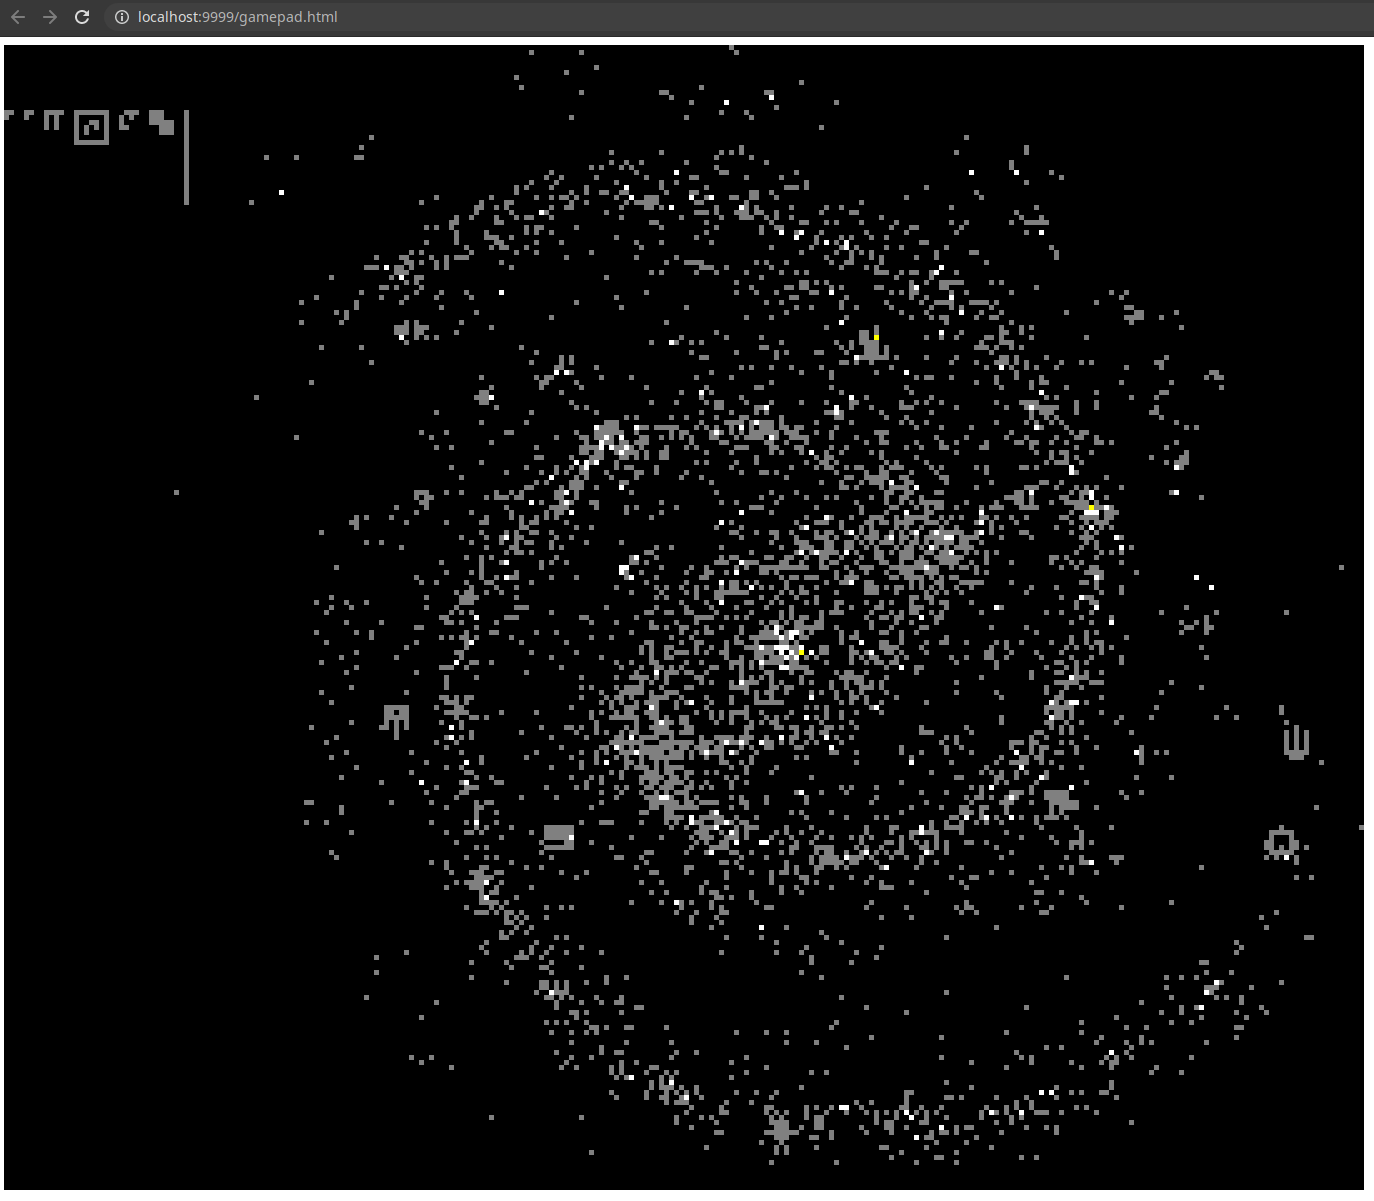
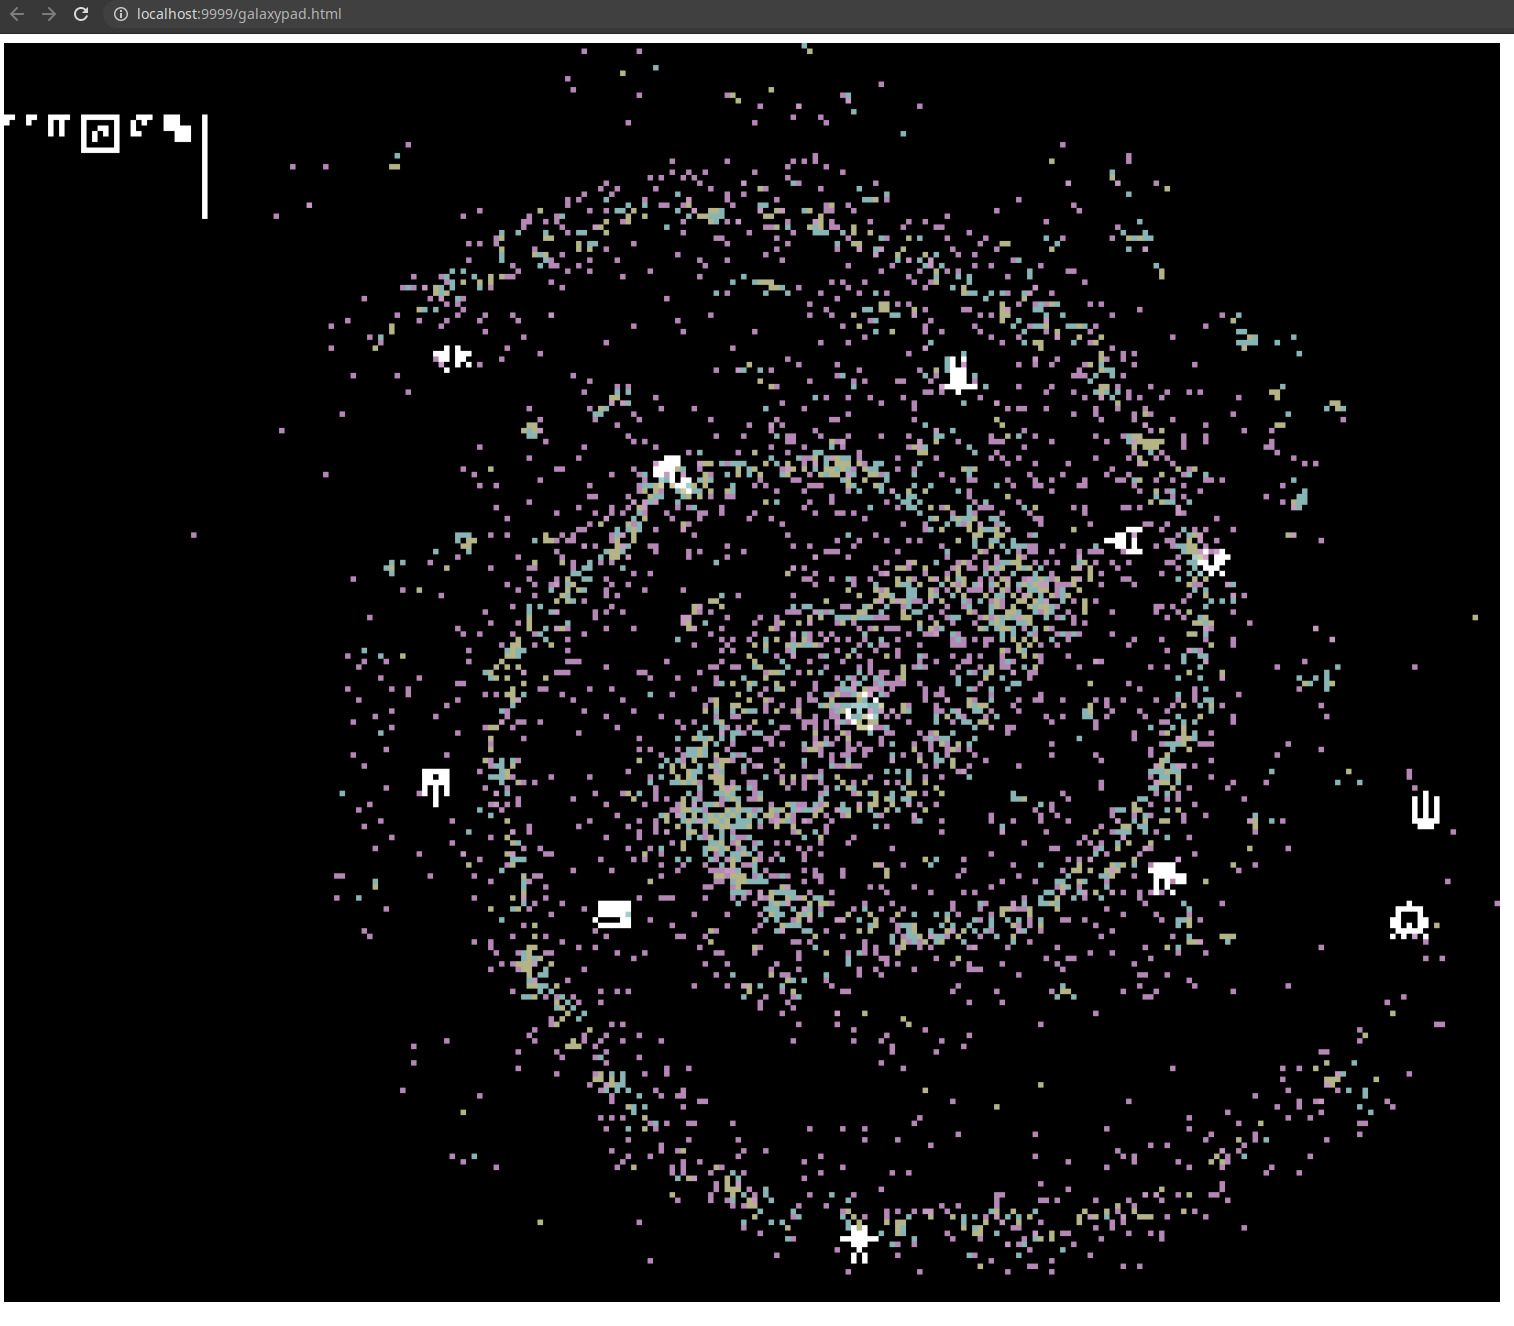
Update screenshot

diff --git a/src/galaxy.rs b/src/galaxy.rs
@@ -9,6 +9,7 @@ use std::rc::Rc;
 pub enum Expr {
     Ap(Rc<Expr>, Rc<Expr>, bool),
     Var(usize),
+    // TODO: Use i128
     Num(i64),
     Add,
     Mul,
@@ -704,8 +705,6 @@ impl Galaxy {
 }
 
 pub fn eval_src(src: &str) -> Result<Rc<Expr>> {
-    // let exp = parse_src(src)?;
-    // eval(exp)
     let mut galaxy = Galaxy::new_for_test(src)?;
     galaxy.eval_galaxy()
 }

diff --git a/README.md b/README.md
@@ -37,7 +37,7 @@ Browser <--( HTTP )--> Galaxy Evaluater <--( HTTP )--> Alien Proxy <--( unknown 
    This runs `cargo run --release --bin app interact` with some configutations.
    See [`Makefile`](./Makefile) for the detail.
 
-3. Open `http://localhost:9999/gamepad.html` in your browser. You will see a
+3. Open `http://localhost:9999/galaxypad.html` in your browser. You will see a
    _clickable_ galaxy map as a starting point, like the following:
 
    ![galaxy](./task/galaxy.png)
